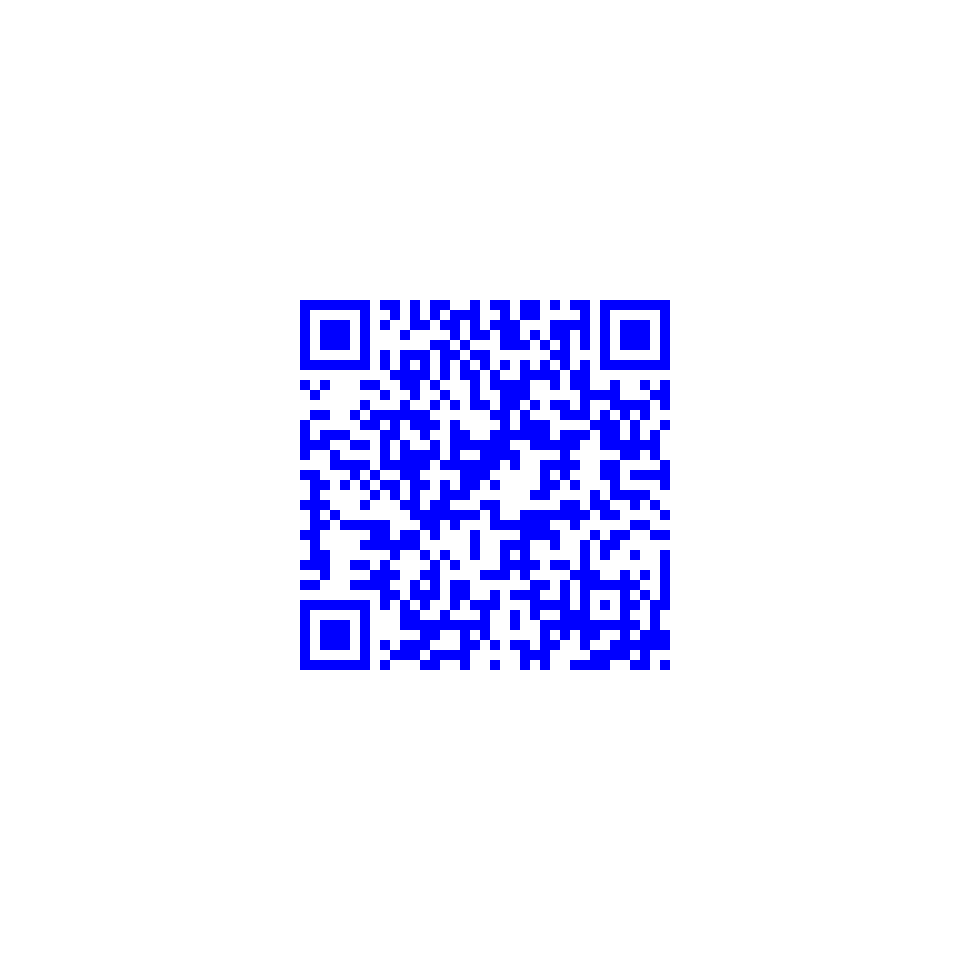
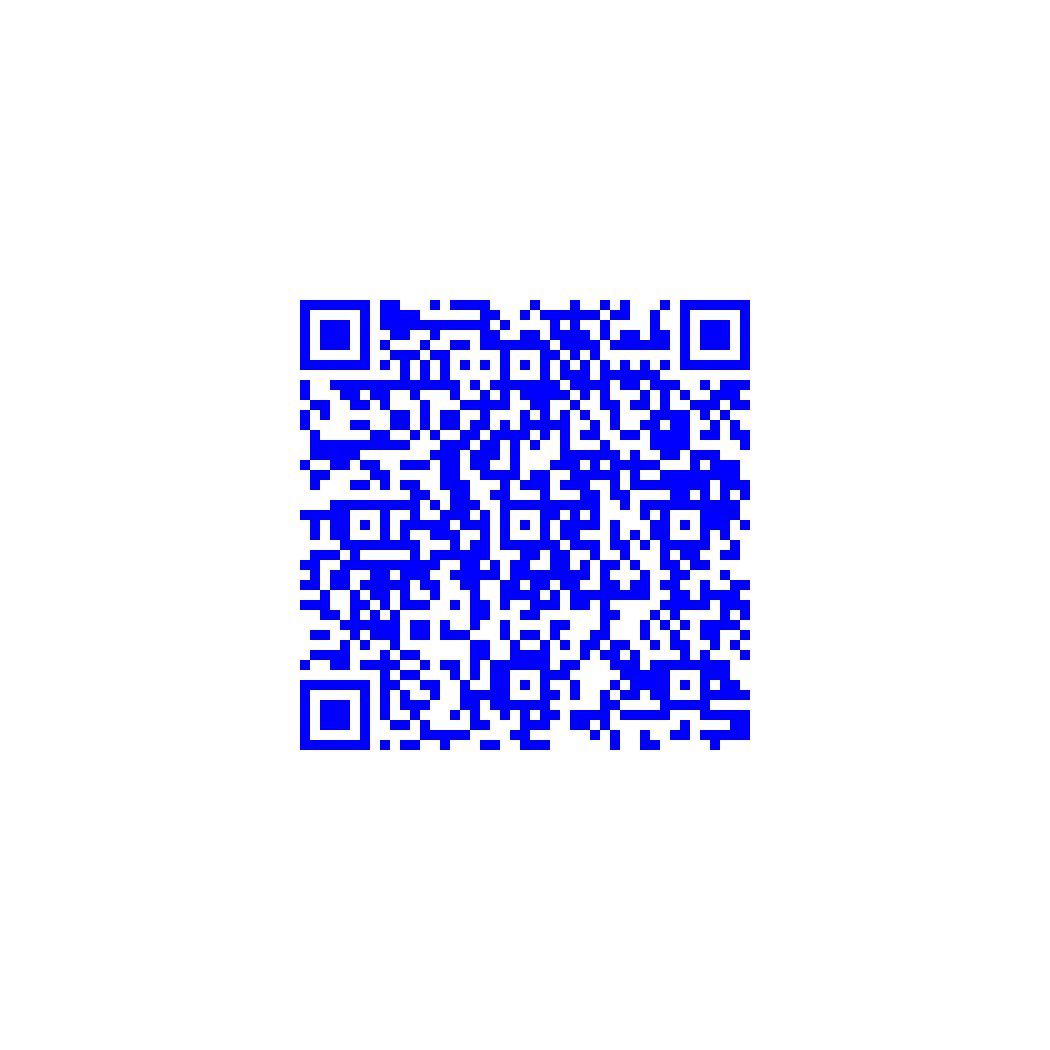
add

Changed region(s): [[0.2784, 0.2784, 0.7113, 0.7113]]

diff --git a/dairy/启程.html b/dairy/启程.html
@@ -13,32 +13,64 @@
 <body>
 <audio id="audio" src="../static/fish-voice/启程.mp3" controls loop autoplay hidden></audio>
 <div class="container">
-    <div id="nav" hidden>
-        <form style="text-align: center">
-            <div class="form-group" style="font-size: 4em;margin-bottom: 0px;">
-                <label for="pwd">DAIRY'S PWD</label>
-                <input style="height: 52px;font-size: 1em" type="email" class="form-control" id="pwd" placeholder="dairy's pwd.">
-            </div>
-            <div class="form-group" id="tip" hidden>
-                <p style="font-size: 2em"></p>
-            </div>
-            <button type="button" style="width: 100%" class="btn btn-lg btn-warning">查看</button>
-        </form>
-    </div>
+
     <div class="content-bd" style="text-align: right">
         <br><strong><p style="font-size: 3em">启程</p></strong>
-        <br><h3>2018-03-06 17:27:31.658771</h3><br><br>
-                <h1>重新出发</h1><br>
-            
-                <h1>从心出发</h1><br>
-            
-                <h1>从薪出发</h1><br>
+        <br>
+        <h3>2018-03-07 10:03:30.893803</h3><br><br>
+        <span class="a-image"><img src="../static/fish-image/20180307100927.jpg"></span>
+        <br><br>
+        <h1>水木年华的《启程》</h1><br>
 
-                <br>
+        <h1>睡着放了整晚</h1><br>
+
+        <br>
+
+        <h1>人在叉口</h1><br>
+
+        <h1>难免感怀</h1><br>
+
+        <br>
+
+        <h1>有的事</h1><br>
+
+        <h1>尽力 仍有遗憾</h1><br>
+
+        <h1>这是现实</h1><br>
+
+        <br>
+
+        <h1>有的人</h1><br>
+
+        <h1>爱过 会有成长</h1><br>
+
+        <h1>乃是向往</h1><br>
+
+        <br>
+
+        <h1>2018-2021</h1><br>
+
+        <br>
+
+        <h1>重新启程</h1><br>
+
+        <h1>从心启程</h1><br>
+
+        <h1>从薪启程</h1><br>
+
+        <br>
+
+        <h1>三年一剑</h1><br>
+
+        <h1>劳资势要</h1><br>
+
+        <h1>薪资翻翻</h1><br>
+
+        <br>
+        <!--<hr style=" height:3px;border:none;border-top:3px double #185598;"/>-->
     </div>
 </div>
 </body>
-
 
 
 <script src="../static/fish-js/index.js"></script>
@@ -56,9 +88,9 @@
             audio.play();
             document.addEventListener("touchstart", play, false);
         }
+
         audioAutoPlay('audio');
 
     })
 </script>
-
-</html>
+html >

diff --git a/dairy/dairy_creator.py b/dairy/dairy_creator.py
@@ -18,7 +18,7 @@ with open(os.getcwd() + '/template.html', 'r', encoding='utf-8') as f:
     with open(os.getcwd() + '/' + title + '.html', 'w', encoding='utf-8') as wf:
         wf.write(nature)
 
-qr = qrcode.QRCode(version=5,
+qr = qrcode.QRCode(version=7,
                    error_correction=qrcode.constants.ERROR_CORRECT_M,
                    box_size=10,
                    border=30)

diff --git a/dairy/text.py b/dairy/text.py
@@ -1,6 +1,25 @@
 dairy_ = """启程
-重新出发
-从心出发
-从薪出发
+水木年华的《启程》
+睡着放了整晚
 
+人在叉口
+难免感怀
+
+有的事
+尽力 仍有遗憾
+这是现实
+
+有的人
+爱过 会有成长
+乃是向往
+
+2018-2021
+
+重新启程
+从心启程
+从薪启程
+
+三年一剑
+劳资势要
+薪资翻翻
 """
